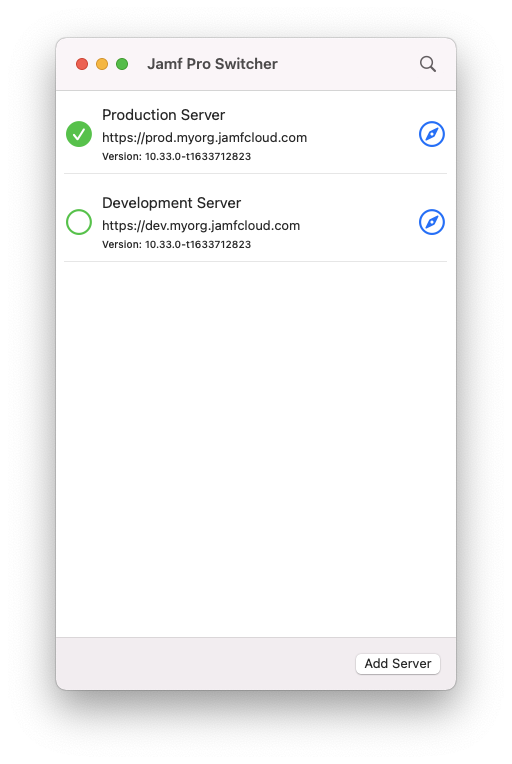
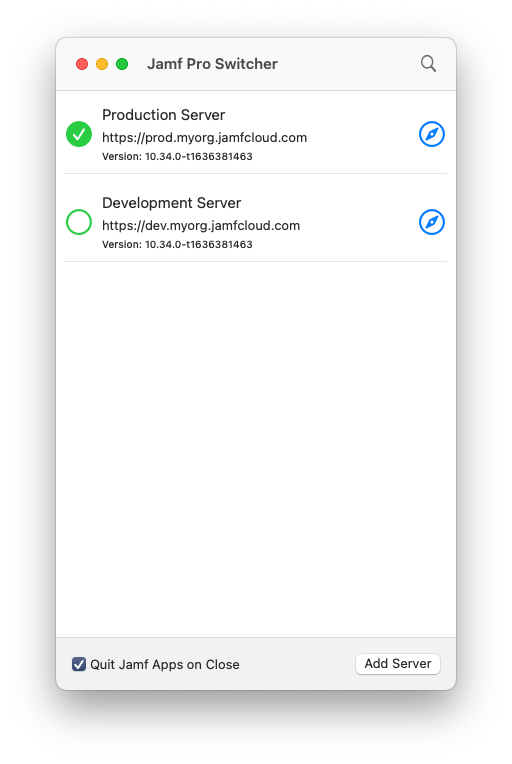
Feature quit apps on close (#8)
* Quit Jamf Apps on Close

* Updated README

diff --git a/Jamf Pro Switcher/Model/Model.swift b/Jamf Pro Switcher/Model/Model.swift
@@ -11,6 +11,7 @@ class Model: ObservableObject {
     static let example: Model = Model()
     @Published var servers: [Server]
     @Published var selectedServer: Server?
+    @Published var quitAppsOnClose: Bool = false
 
     init() {
         servers = []
@@ -27,6 +28,8 @@ class Model: ObservableObject {
             print(error.localizedDescription)
         }
 
+        quitAppsOnClose = UserDefaults.standard.bool(forKey: "QuitAppsOnClose")
+
         guard let dictionary: [String: Any] = NSDictionary(contentsOfFile: .jamfPreferencesPath) as? [String: Any],
             let address: String = dictionary["url"] as? String else {
             return
@@ -38,6 +41,7 @@ class Model: ObservableObject {
     func save() {
         let dictionaries: [[String: String]] = servers.map { $0.dictionary }
         UserDefaults.standard.set(dictionaries, forKey: "JamfProServers")
+        UserDefaults.standard.set(quitAppsOnClose, forKey: "QuitAppsOnClose")
     }
 
     func updateServerVersions() {

diff --git a/Jamf Pro Switcher/Views/ContentView.swift b/Jamf Pro Switcher/Views/ContentView.swift
@@ -31,6 +31,7 @@ struct ContentView: View {
             .listStyle(.plain)
             Divider()
             HStack {
+                Toggle("Quit Jamf Apps on Close", isOn: $model.quitAppsOnClose)
                 Spacer()
                 Button("Add Server") {
                     add()
@@ -45,6 +46,7 @@ struct ContentView: View {
         }
         .onDisappear {
             model.save()
+            quitJamfProApps()
         }
         .onChange(of: model.selectedServer) { server in
             model.setServer(server)
@@ -77,6 +79,17 @@ struct ContentView: View {
         }
 
         return filteredServers
+    }
+
+    private func quitJamfProApps() {
+
+        guard model.quitAppsOnClose else {
+            return
+        }
+
+        NSWorkspace.shared.runningApplications.filter { String.applicationIdentifiers.contains($0.bundleIdentifier ?? "") }.forEach { application in
+            application.terminate()
+        }
     }
 }
 

diff --git a/Jamf Pro Switcher/Extensions/String+Extension.swift b/Jamf Pro Switcher/Extensions/String+Extension.swift
@@ -13,6 +13,17 @@ extension String {
     static var jamfPreferencesPath: String {
         NSHomeDirectory().replacingOccurrences(of: "Containers/com.ninxsoft.jamfproswitcher/Data", with: "") + "Preferences/com.jamfsoftware.jss.plist"
     }
+    static var applicationIdentifiers: [String] {
+        [
+            "com.jamfsoftware.CasperAdmin",
+            "com.jamfsoftware.CasperImaging",
+            "com.jamfsoftware.CasperRemote",
+            "com.jamfsoftware.JamfAdmin",
+            "com.jamfsoftware.JamfImaging",
+            "com.jamfsoftware.JamfRemote",
+            "com.jamfsoftware.Recon"
+        ]
+    }
 
     var isValidServerAddress: Bool {
         let regex: String = "((?:http|https)://)?(?:www\\.)?[\\w\\d\\-_]+\\.\\w{2,3}(\\.\\w{2})?(/(?<=/)(?:[\\w\\d\\-./_]+)?)?"

diff --git a/README.md b/README.md
@@ -16,7 +16,7 @@ A Mac utility that quickly switches between multiple Jamf Pro Server instances:
 
 Grab the latest version of **Jamf Pro Switcher** from the [releases page](https://github.com/ninxsoft/JamfProSwitcher/releases).
 
-**Note:** Version **2.2** requires **macOS Monterey 12.0** or later.
+**Note:** Version **2.2** and later require **macOS Monterey 12.0** or later.
 
 If you need to run **Jamf Pro Switcher** on an older operating system, you can still use version **2.1.1**.
 
@@ -26,6 +26,10 @@ If you need to run **Jamf Pro Switcher** on an older operating system, you can s
 - Marcus Ransom ([@marcusransom](https://twitter.com/marcusransom)) for his advice and help with testing.
 
 ## Version History
+
+- 2.3
+
+  - Brought back the ability to **Quit Jamf apps on Close**
 
 - 2.2.1
 
